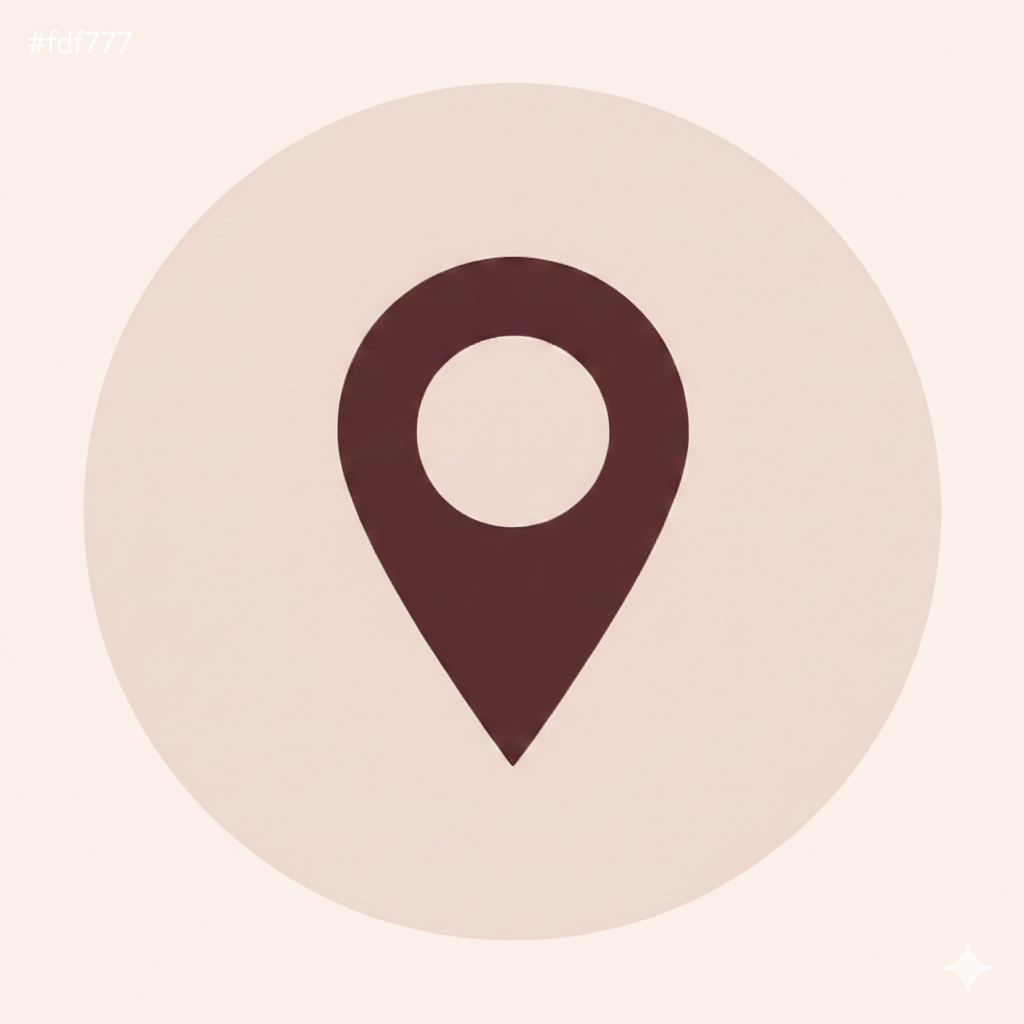
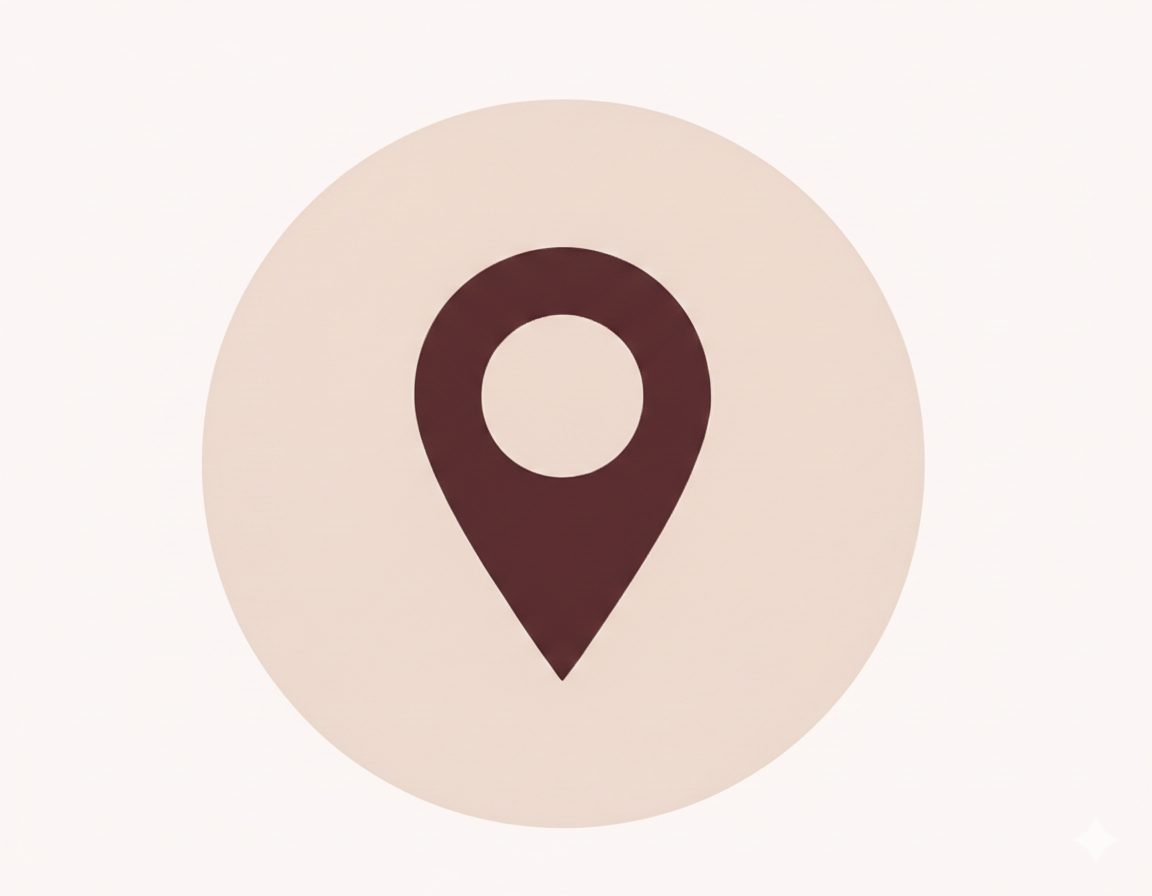
test
test

diff --git a/src/css/Location.css b/src/css/Location.css
@@ -74,7 +74,7 @@
 }
 
 .info-icon-map {
-  width: 30px; /* 클릭 영역 확보를 위해 기존 20px에서 25px로 키움 */
+  width: 40px; /* 클릭 영역 확보를 위해 기존 20px에서 25px로 키움 */
   height: 30px;
   cursor: pointer;
   margin-left: 7px;
@@ -121,5 +121,5 @@
 }
 
 .grid-bottom-right {
-  margin-left: -12px;
+  margin-left: -18px;
 }
